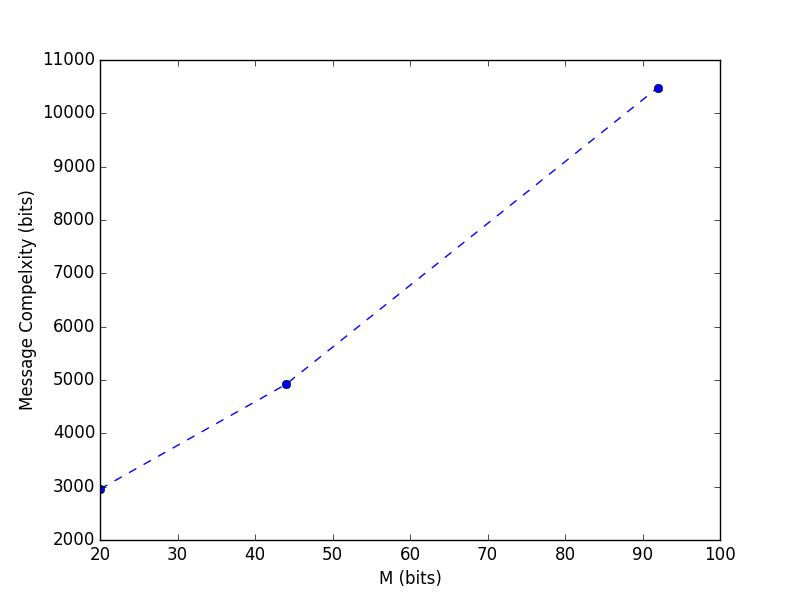
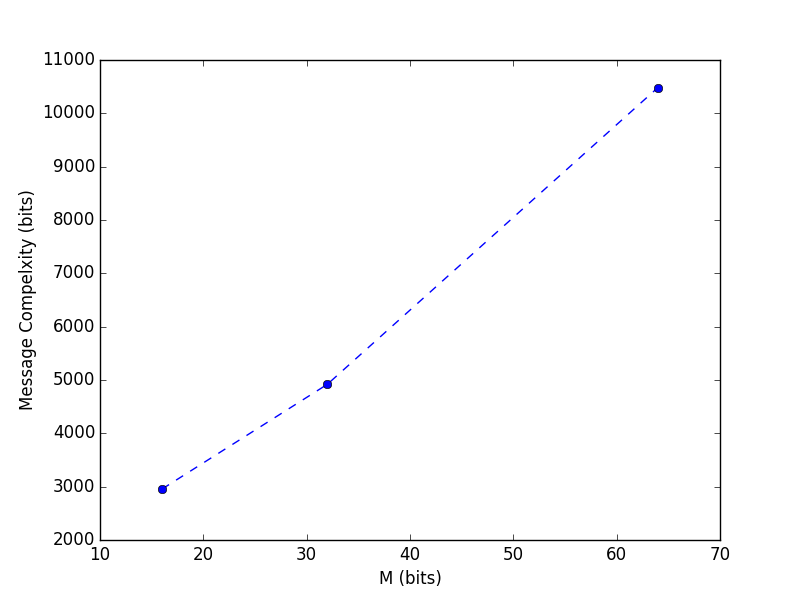
experiment

diff --git a/statistic.py b/statistic.py
@@ -59,7 +59,7 @@ def travelFiles_bybits():
              if (not os.path.isdir(fn)) and fn == filename:
                 with open(dirPath+"/"+filename,"r") as f:
                     print "statistic file: ", filename
-                    x.append(bits+i*12)
+                    x.append(bits+i*8)
                     datay, dataz = average(f)
                     y.append(datay)
                     z.append(dataz)
